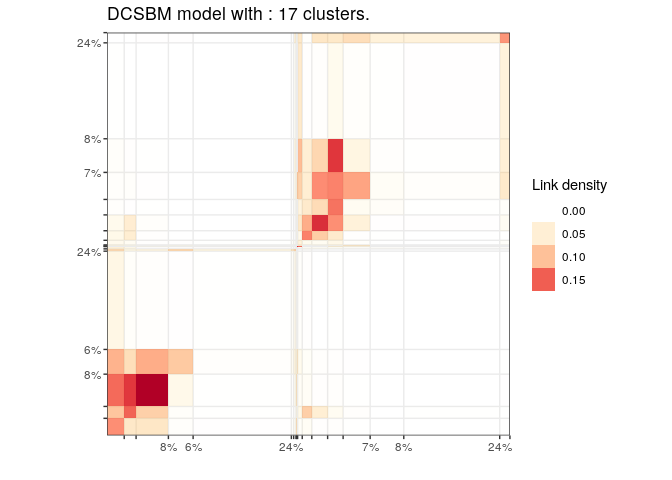
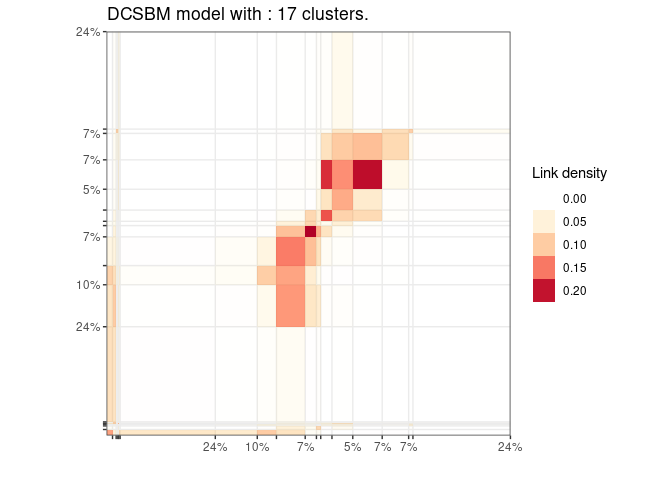
github actions and website update

Changed region(s): [[0.0938, 0.0, 0.9062, 0.9375], [0.7188, 0.9062, 0.7812, 0.9375], [0.4375, 0.7188, 0.4688, 0.7812]]

diff --git a/docs/index.html b/docs/index.html
@@ -71,33 +71,32 @@
 
       </header><div class="row">
   <div class="contents col-md-9">
-<div id="greed-bayesian-greedy-clustering" class="section level1">
+<div id="greed--bayesian-greedy-clustering-" class="section level1">
 <div class="page-header"><h1 class="hasAnchor">
-<a href="#greed-bayesian-greedy-clustering" class="anchor"></a>GREED : Bayesian greedy clustering <img src="reference/figures/greed.png" width="200" align="right">
+<a href="#greed--bayesian-greedy-clustering-" class="anchor"></a>GREED : Bayesian greedy clustering <img src="reference/figures/greed.png" width="200" align="right">
 </h1></div>
 <!-- badges: start -->
 <!-- badges: end -->
 <p>Greed enable model based clustering of networks, counts data matrix and much more with different type of generative models. Model selection and clustering is performed in combination by optimizing the Integrated Classification Likelihood. Details on the algorithms and methods proposed by this package can be found in this pre-print <a href="https://arxiv.org/abs/2002.11577v1" class="uri">https://arxiv.org/abs/2002.11577v1</a>.</p>
 <p>The following generative models are available currently :</p>
 <ul>
-<li>Stochastic Block Models (for directed and un-directed graphs, see <code><a href="reference/sbm-class.html">?`sbm-class`</a></code>),</li>
-<li>Degree Corrected Stochastic Block Models (for directed and un-directed graphs, see <code><a href="reference/dcsbm-class.html">?`dcsbm-class`</a></code>),</li>
-<li>Stochastic Block Models with Mutlinomial observations (experimental, see <code>?multsbm-class</code>),</li>
-<li>Latent Block Models (see <code>?`co_sbm-class`</code>),</li>
+<li>Stochastic Block Models (for <strong>directed</strong> and <strong>un-directed</strong> graphs, see <code><a href="reference/sbm-class.html">?`sbm-class`</a></code>),</li>
+<li>Degree Corrected Stochastic Block Models (for <strong>directed</strong> and <strong>un-directed</strong> graphs, see <code><a href="reference/dcsbm-class.html">?`dcsbm-class`</a></code>),</li>
+<li>Stochastic Block Models with Mutlinomial observations (<strong>experimental</strong>, see <code><a href="reference/multsbm-class.html">?`multsbm-class`</a></code>),</li>
 <li>Degree Corrected Latent Block Models (see <code><a href="reference/co_dcsbm-class.html">?`co_dcsbm-class`</a></code>),</li>
 <li>Mixture of Multinomials (see <code><a href="reference/mm-class.html">?`mm-class`</a></code>),</li>
-<li>Gaussian Mixture Model (experimental, see <code><a href="reference/gmm-class.html">?`gmm-class`</a></code>),</li>
-<li>Multivariate Mixture of Gaussian Regression Model (experimental, see <code><a href="reference/mvmreg-class.html">?`mvmreg-class`</a></code>).</li>
+<li>Gaussian Mixture Model (<strong>experimental</strong>, see <code><a href="reference/gmm-class.html">?`gmm-class`</a></code>),</li>
+<li>Multivariate Mixture of Gaussian Regression Model (<strong>experimental</strong>, see <code><a href="reference/mvmreg-class.html">?`mvmreg-class`</a></code>).</li>
 </ul>
-<p>With the Integrated Classification Likelihood the parameters of the models are integrated out. Since the Integrated Classification Likelihood introduces a natural regularization for complex models such strategy automatically find a “natural” value for the number of cluster, the user needs only to provide an initial guess. The optimization is performed by default thanks to a combination of greedy local search and a genetic algorithm, several optimization algorithms are available.</p>
-<p>Eventually, the whole path of solutions from K* to 1 cluster is extracted. This enable a partial ordering of the clusters, and the evaluation of simpler clustering. The package also provides some plotting functionality.</p>
+<p>With the Integrated Classification Likelihood the parameters of the models are integrated out and therefore introduces a natural regularization for complex models. Since the Integrated Classification Likelihood penalize complex models it enable to automatically find a “natural” value for the number of cluster <span class="math inline"><em>K</em><sup>*</sup></span>, the user needs only to provide an initial guess and value for the prior parameters (sensible default values are used if no prior information is available). The optimization is performed by default thanks to a combination of greedy local search and a genetic algorithm, several optimization algorithms are available.</p>
+<p>Eventually, the whole path of solutions from <span class="math inline"><em>K</em><sup>*</sup></span> to 1 cluster is extracted. This enable a partial ordering of the clusters, and the evaluation of simpler clustering. The package also provides some plotting functionality.</p>
 <div id="installation" class="section level2">
 <h2 class="hasAnchor">
 <a href="#installation" class="anchor"></a>Installation</h2>
 <p>You can install the released version of greed from <a href="https://github.com/">GitHub</a> with:</p>
 <div class="sourceCode" id="cb1"><pre class="downlit sourceCode r">
 <code class="sourceCode R"><span class="fu"><a href="https://rdrr.io/r/utils/install.packages.html">install.packages</a></span><span class="op">(</span><span class="st">"devtools"</span><span class="op">)</span>
-<span class="fu">devtools</span><span class="fu">::</span><span class="fu"><a href="https://remotes.r-lib.org/reference/install_github.html">install_github</a></span><span class="op">(</span><span class="st">"comeetie/greed"</span><span class="op">)</span></code></pre></div>
+<span class="fu">devtools</span><span class="fu">::</span><span class="fu"><a href="https://devtools.r-lib.org//reference/remote-reexports.html">install_github</a></span><span class="op">(</span><span class="st">"comeetie/greed"</span><span class="op">)</span></code></pre></div>
 </div>
 <div id="usage" class="section level2">
 <h2 class="hasAnchor">
@@ -107,39 +106,43 @@
 <code class="sourceCode R"><span class="kw"><a href="https://rdrr.io/r/base/library.html">library</a></span><span class="op">(</span><span class="va">greed</span><span class="op">)</span>
 <span class="fu"><a href="https://rdrr.io/r/utils/data.html">data</a></span><span class="op">(</span><span class="va">Jazz</span><span class="op">)</span>
 <span class="va">sol</span><span class="op">=</span><span class="fu"><a href="reference/greed.html">greed</a></span><span class="op">(</span><span class="va">Jazz</span><span class="op">)</span>
-<span class="co">#&gt; ------- Fitting a dcsbm model ------</span>
-<span class="co">#&gt; ################# Generation  1: best solution with an ICL of -29393 and 17 clusters #################</span>
-<span class="co">#&gt; ################# Generation  2: best solution with an ICL of -29320 and 21 clusters #################</span>
-<span class="co">#&gt; ################# Generation  3: best solution with an ICL of -29306 and 19 clusters #################</span>
-<span class="co">#&gt; ################# Generation  4: best solution with an ICL of -29306 and 19 clusters #################</span>
-<span class="co">#&gt; 18</span></code></pre></div>
-<p>Here Jazz is a square sparse matrix and a dcsbm model will be used by default. Some plotting function enable the exploration of the clustering results:</p>
+<span class="co">#&gt; ------- Fitting a DCSBM model ------</span>
+<span class="co">#&gt; ################# Generation  1: best solution with an ICL of -29423 and 16 clusters #################</span>
+<span class="co">#&gt; ################# Generation  2: best solution with an ICL of -29353 and 21 clusters #################</span>
+<span class="co">#&gt; ################# Generation  3: best solution with an ICL of -29305 and 22 clusters #################</span>
+<span class="co">#&gt; ################# Generation  4: best solution with an ICL of -29298 and 21 clusters #################</span>
+<span class="co">#&gt; ################# Generation  5: best solution with an ICL of -29295 and 21 clusters #################</span>
+<span class="co">#&gt; ################# Generation  6: best solution with an ICL of -29293 and 21 clusters #################</span>
+<span class="co">#&gt; ################# Generation  7: best solution with an ICL of -29293 and 21 clusters #################</span>
+<span class="co">#&gt; ------- Final clustering -------</span>
+<span class="co">#&gt; ICL clustering with a DCSBM model, 20 clusters and an icl of -29268.</span></code></pre></div>
+<p>Here Jazz is a square sparse matrix and a <code><a href="reference/dcsbm-class.html">?`dcsbm-class`</a></code> model will be used by default. Some plotting function enable the exploration of the clustering results:</p>
 <div class="sourceCode" id="cb3"><pre class="downlit sourceCode r">
-<code class="sourceCode R"><span class="fu"><a href="https://rdrr.io/r/graphics/plot.html">plot</a></span><span class="op">(</span><span class="va">sol</span><span class="op">)</span></code></pre></div>
+<code class="sourceCode R"><span class="fu"><a href="https://rdrr.io/r/graphics/plot.default.html">plot</a></span><span class="op">(</span><span class="va">sol</span><span class="op">)</span></code></pre></div>
 <p><img src="reference/figures/plot-1.png" width="60%"></p>
 <p>And the hierarchical structure between clusters:</p>
 <div class="sourceCode" id="cb4"><pre class="downlit sourceCode r">
-<code class="sourceCode R"><span class="fu"><a href="https://rdrr.io/r/graphics/plot.html">plot</a></span><span class="op">(</span><span class="va">sol</span>,type<span class="op">=</span><span class="st">'tree'</span><span class="op">)</span></code></pre></div>
+<code class="sourceCode R"><span class="fu"><a href="https://rdrr.io/r/graphics/plot.default.html">plot</a></span><span class="op">(</span><span class="va">sol</span>,type<span class="op">=</span><span class="st">'tree'</span><span class="op">)</span></code></pre></div>
 <p><img src="reference/figures/tree-1.png" width="60%"></p>
 <p>Eventually, one may explore some coarser clustering using the cut function:</p>
 <div class="sourceCode" id="cb5"><pre class="downlit sourceCode r">
-<code class="sourceCode R"><span class="fu"><a href="https://rdrr.io/r/graphics/plot.html">plot</a></span><span class="op">(</span><span class="fu"><a href="https://rdrr.io/r/base/cut.html">cut</a></span><span class="op">(</span><span class="va">sol</span>,<span class="fl">5</span><span class="op">)</span><span class="op">)</span></code></pre></div>
+<code class="sourceCode R"><span class="fu"><a href="https://rdrr.io/r/graphics/plot.default.html">plot</a></span><span class="op">(</span><span class="fu"><a href="https://rdrr.io/r/base/cut.html">cut</a></span><span class="op">(</span><span class="va">sol</span>,<span class="fl">5</span><span class="op">)</span><span class="op">)</span></code></pre></div>
 <p><img src="reference/figures/cut-1.png" width="60%"></p>
-<p>For large datasets, it’s possible to use parallelism to speed-up the computation thanks to the future package. You only need to specify the type of parallelism.</p>
+<p>For large datasets, it’s possible to use parallelism to speed-up the computation thanks to the <a href="https://github.com/HenrikBengtsson/future">future</a> package. You only need to specify the type of backend you ant to use.</p>
 <div class="sourceCode" id="cb6"><pre class="downlit sourceCode r">
 <code class="sourceCode R"><span class="kw"><a href="https://rdrr.io/r/base/library.html">library</a></span><span class="op">(</span><span class="va"><a href="https://github.com/HenrikBengtsson/future">future</a></span><span class="op">)</span>
 <span class="fu"><a href="https://rdrr.io/pkg/future/man/plan.html">plan</a></span><span class="op">(</span><span class="va">multisession</span><span class="op">)</span>
 <span class="fu"><a href="https://rdrr.io/r/utils/data.html">data</a></span><span class="op">(</span><span class="st">"Blogs"</span><span class="op">)</span>
 <span class="va">sol</span><span class="op">=</span><span class="fu"><a href="reference/greed.html">greed</a></span><span class="op">(</span><span class="va">Blogs</span><span class="op">$</span><span class="va">X</span><span class="op">)</span>
-<span class="co">#&gt; ------- Fitting a dcsbm model ------</span>
-<span class="co">#&gt; ################# Generation  1: best solution with an ICL of -84392 and 15 clusters #################</span>
-<span class="co">#&gt; ################# Generation  2: best solution with an ICL of -84331 and 18 clusters #################</span>
-<span class="co">#&gt; ################# Generation  3: best solution with an ICL of -84264 and 17 clusters #################</span>
-<span class="co">#&gt; ################# Generation  4: best solution with an ICL of -84236 and 18 clusters #################</span>
-<span class="co">#&gt; ################# Generation  5: best solution with an ICL of -84176 and 18 clusters #################</span>
-<span class="co">#&gt; ################# Generation  6: best solution with an ICL of -84176 and 18 clusters #################</span>
-<span class="co">#&gt; 17</span>
-<span class="fu"><a href="https://rdrr.io/r/graphics/plot.html">plot</a></span><span class="op">(</span><span class="va">sol</span><span class="op">)</span></code></pre></div>
+<span class="co">#&gt; ------- Fitting a DCSBM model ------</span>
+<span class="co">#&gt; ################# Generation  1: best solution with an ICL of -84448 and 16 clusters #################</span>
+<span class="co">#&gt; ################# Generation  2: best solution with an ICL of -84255 and 18 clusters #################</span>
+<span class="co">#&gt; ################# Generation  3: best solution with an ICL of -84232 and 19 clusters #################</span>
+<span class="co">#&gt; ################# Generation  4: best solution with an ICL of -84196 and 18 clusters #################</span>
+<span class="co">#&gt; ################# Generation  5: best solution with an ICL of -84196 and 18 clusters #################</span>
+<span class="co">#&gt; ------- Final clustering -------</span>
+<span class="co">#&gt; ICL clustering with a DCSBM model, 17 clusters and an icl of -84137.</span>
+<span class="fu"><a href="https://rdrr.io/r/graphics/plot.default.html">plot</a></span><span class="op">(</span><span class="va">sol</span><span class="op">)</span></code></pre></div>
 <p><img src="reference/figures/future-1.png" width="60%"></p>
 </div>
 </div>

diff --git a/README.md b/README.md
@@ -16,28 +16,30 @@ proposed by this package can be found in this pre-print
 
 The following generative models are available currently :
 
-  - Stochastic Block Models (for directed and un-directed graphs, see
-    ``?`sbm-class` ``),
-  - Degree Corrected Stochastic Block Models (for directed and
-    un-directed graphs, see ``?`dcsbm-class` ``),
-  - Stochastic Block Models with Mutlinomial observations (experimental,
-    see `?multsbm-class`),
-  - Latent Block Models (see ``?`co_sbm-class` ``),
-  - Degree Corrected Latent Block Models (see ``?`co_dcsbm-class` ``),
-  - Mixture of Multinomials (see ``?`mm-class` ``),
-  - Gaussian Mixture Model (experimental, see ``?`gmm-class` ``),
-  - Multivariate Mixture of Gaussian Regression Model (experimental, see
-    ``?`mvmreg-class` ``).
+  - Stochastic Block Models (for **directed** and **un-directed**
+    graphs, see `` ?`sbm-class` ``),
+  - Degree Corrected Stochastic Block Models (for **directed** and
+    **un-directed** graphs, see `` ?`dcsbm-class` ``),
+  - Stochastic Block Models with Mutlinomial observations
+    (**experimental**, see `` ?`multsbm-class` ``),
+  - Degree Corrected Latent Block Models (see `` ?`co_dcsbm-class` ``),
+  - Mixture of Multinomials (see `` ?`mm-class` ``),
+  - Gaussian Mixture Model (**experimental**, see `` ?`gmm-class` ``),
+  - Multivariate Mixture of Gaussian Regression Model (**experimental**,
+    see `` ?`mvmreg-class` ``).
 
 With the Integrated Classification Likelihood the parameters of the
-models are integrated out. Since the Integrated Classification
-Likelihood introduces a natural regularization for complex models such
-strategy automatically find a “natural” value for the number of cluster,
-the user needs only to provide an initial guess. The optimization is
-performed by default thanks to a combination of greedy local search and
-a genetic algorithm, several optimization algorithms are available.
+models are integrated out and therefore introduces a natural
+regularization for complex models. Since the Integrated Classification
+Likelihood penalize complex models it enable to automatically find a
+“natural” value for the number of cluster \(K^*\), the user needs only
+to provide an initial guess and value for the prior parameters (sensible
+default values are used if no prior information is available). The
+optimization is performed by default thanks to a combination of greedy
+local search and a genetic algorithm, several optimization algorithms
+are available.
 
-Eventually, the whole path of solutions from K\* to 1 cluster is
+Eventually, the whole path of solutions from \(K^*\) to 1 cluster is
 extracted. This enable a partial ordering of the clusters, and the
 evaluation of simpler clustering. The package also provides some
 plotting functionality.
@@ -64,17 +66,21 @@ network:
 library(greed)
 data(Jazz)
 sol=greed(Jazz)
-#> ------- Fitting a dcsbm model ------
-#> ################# Generation  1: best solution with an ICL of -29393 and 17 clusters #################
-#> ################# Generation  2: best solution with an ICL of -29320 and 21 clusters #################
-#> ################# Generation  3: best solution with an ICL of -29306 and 19 clusters #################
-#> ################# Generation  4: best solution with an ICL of -29306 and 19 clusters #################
-#> 18
+#> ------- Fitting a DCSBM model ------
+#> ################# Generation  1: best solution with an ICL of -29423 and 16 clusters #################
+#> ################# Generation  2: best solution with an ICL of -29353 and 21 clusters #################
+#> ################# Generation  3: best solution with an ICL of -29305 and 22 clusters #################
+#> ################# Generation  4: best solution with an ICL of -29298 and 21 clusters #################
+#> ################# Generation  5: best solution with an ICL of -29295 and 21 clusters #################
+#> ################# Generation  6: best solution with an ICL of -29293 and 21 clusters #################
+#> ################# Generation  7: best solution with an ICL of -29293 and 21 clusters #################
+#> ------- Final clustering -------
+#> ICL clustering with a DCSBM model, 20 clusters and an icl of -29268.
 ```
 
-Here Jazz is a square sparse matrix and a dcsbm model will be used by
-default. Some plotting function enable the exploration of the clustering
-results:
+Here Jazz is a square sparse matrix and a `` ?`dcsbm-class` `` model
+will be used by default. Some plotting function enable the exploration
+of the clustering results:
 
 ``` r
 plot(sol)
@@ -100,22 +106,23 @@ plot(cut(sol,5))
 <img src="man/figures/cut-1.png" width="60%" />
 
 For large datasets, it’s possible to use parallelism to speed-up the
-computation thanks to the future package. You only need to specify the
-type of parallelism.
+computation thanks to the
+[future](https://github.com/HenrikBengtsson/future) package. You only
+need to specify the type of backend you ant to use.
 
 ``` r
 library(future)
 plan(multisession)
 data("Blogs")
 sol=greed(Blogs$X)
-#> ------- Fitting a dcsbm model ------
-#> ################# Generation  1: best solution with an ICL of -84392 and 15 clusters #################
-#> ################# Generation  2: best solution with an ICL of -84331 and 18 clusters #################
-#> ################# Generation  3: best solution with an ICL of -84264 and 17 clusters #################
-#> ################# Generation  4: best solution with an ICL of -84236 and 18 clusters #################
-#> ################# Generation  5: best solution with an ICL of -84176 and 18 clusters #################
-#> ################# Generation  6: best solution with an ICL of -84176 and 18 clusters #################
-#> 17
+#> ------- Fitting a DCSBM model ------
+#> ################# Generation  1: best solution with an ICL of -84448 and 16 clusters #################
+#> ################# Generation  2: best solution with an ICL of -84255 and 18 clusters #################
+#> ################# Generation  3: best solution with an ICL of -84232 and 19 clusters #################
+#> ################# Generation  4: best solution with an ICL of -84196 and 18 clusters #################
+#> ################# Generation  5: best solution with an ICL of -84196 and 18 clusters #################
+#> ------- Final clustering -------
+#> ICL clustering with a DCSBM model, 17 clusters and an icl of -84137.
 plot(sol)
 ```
 
